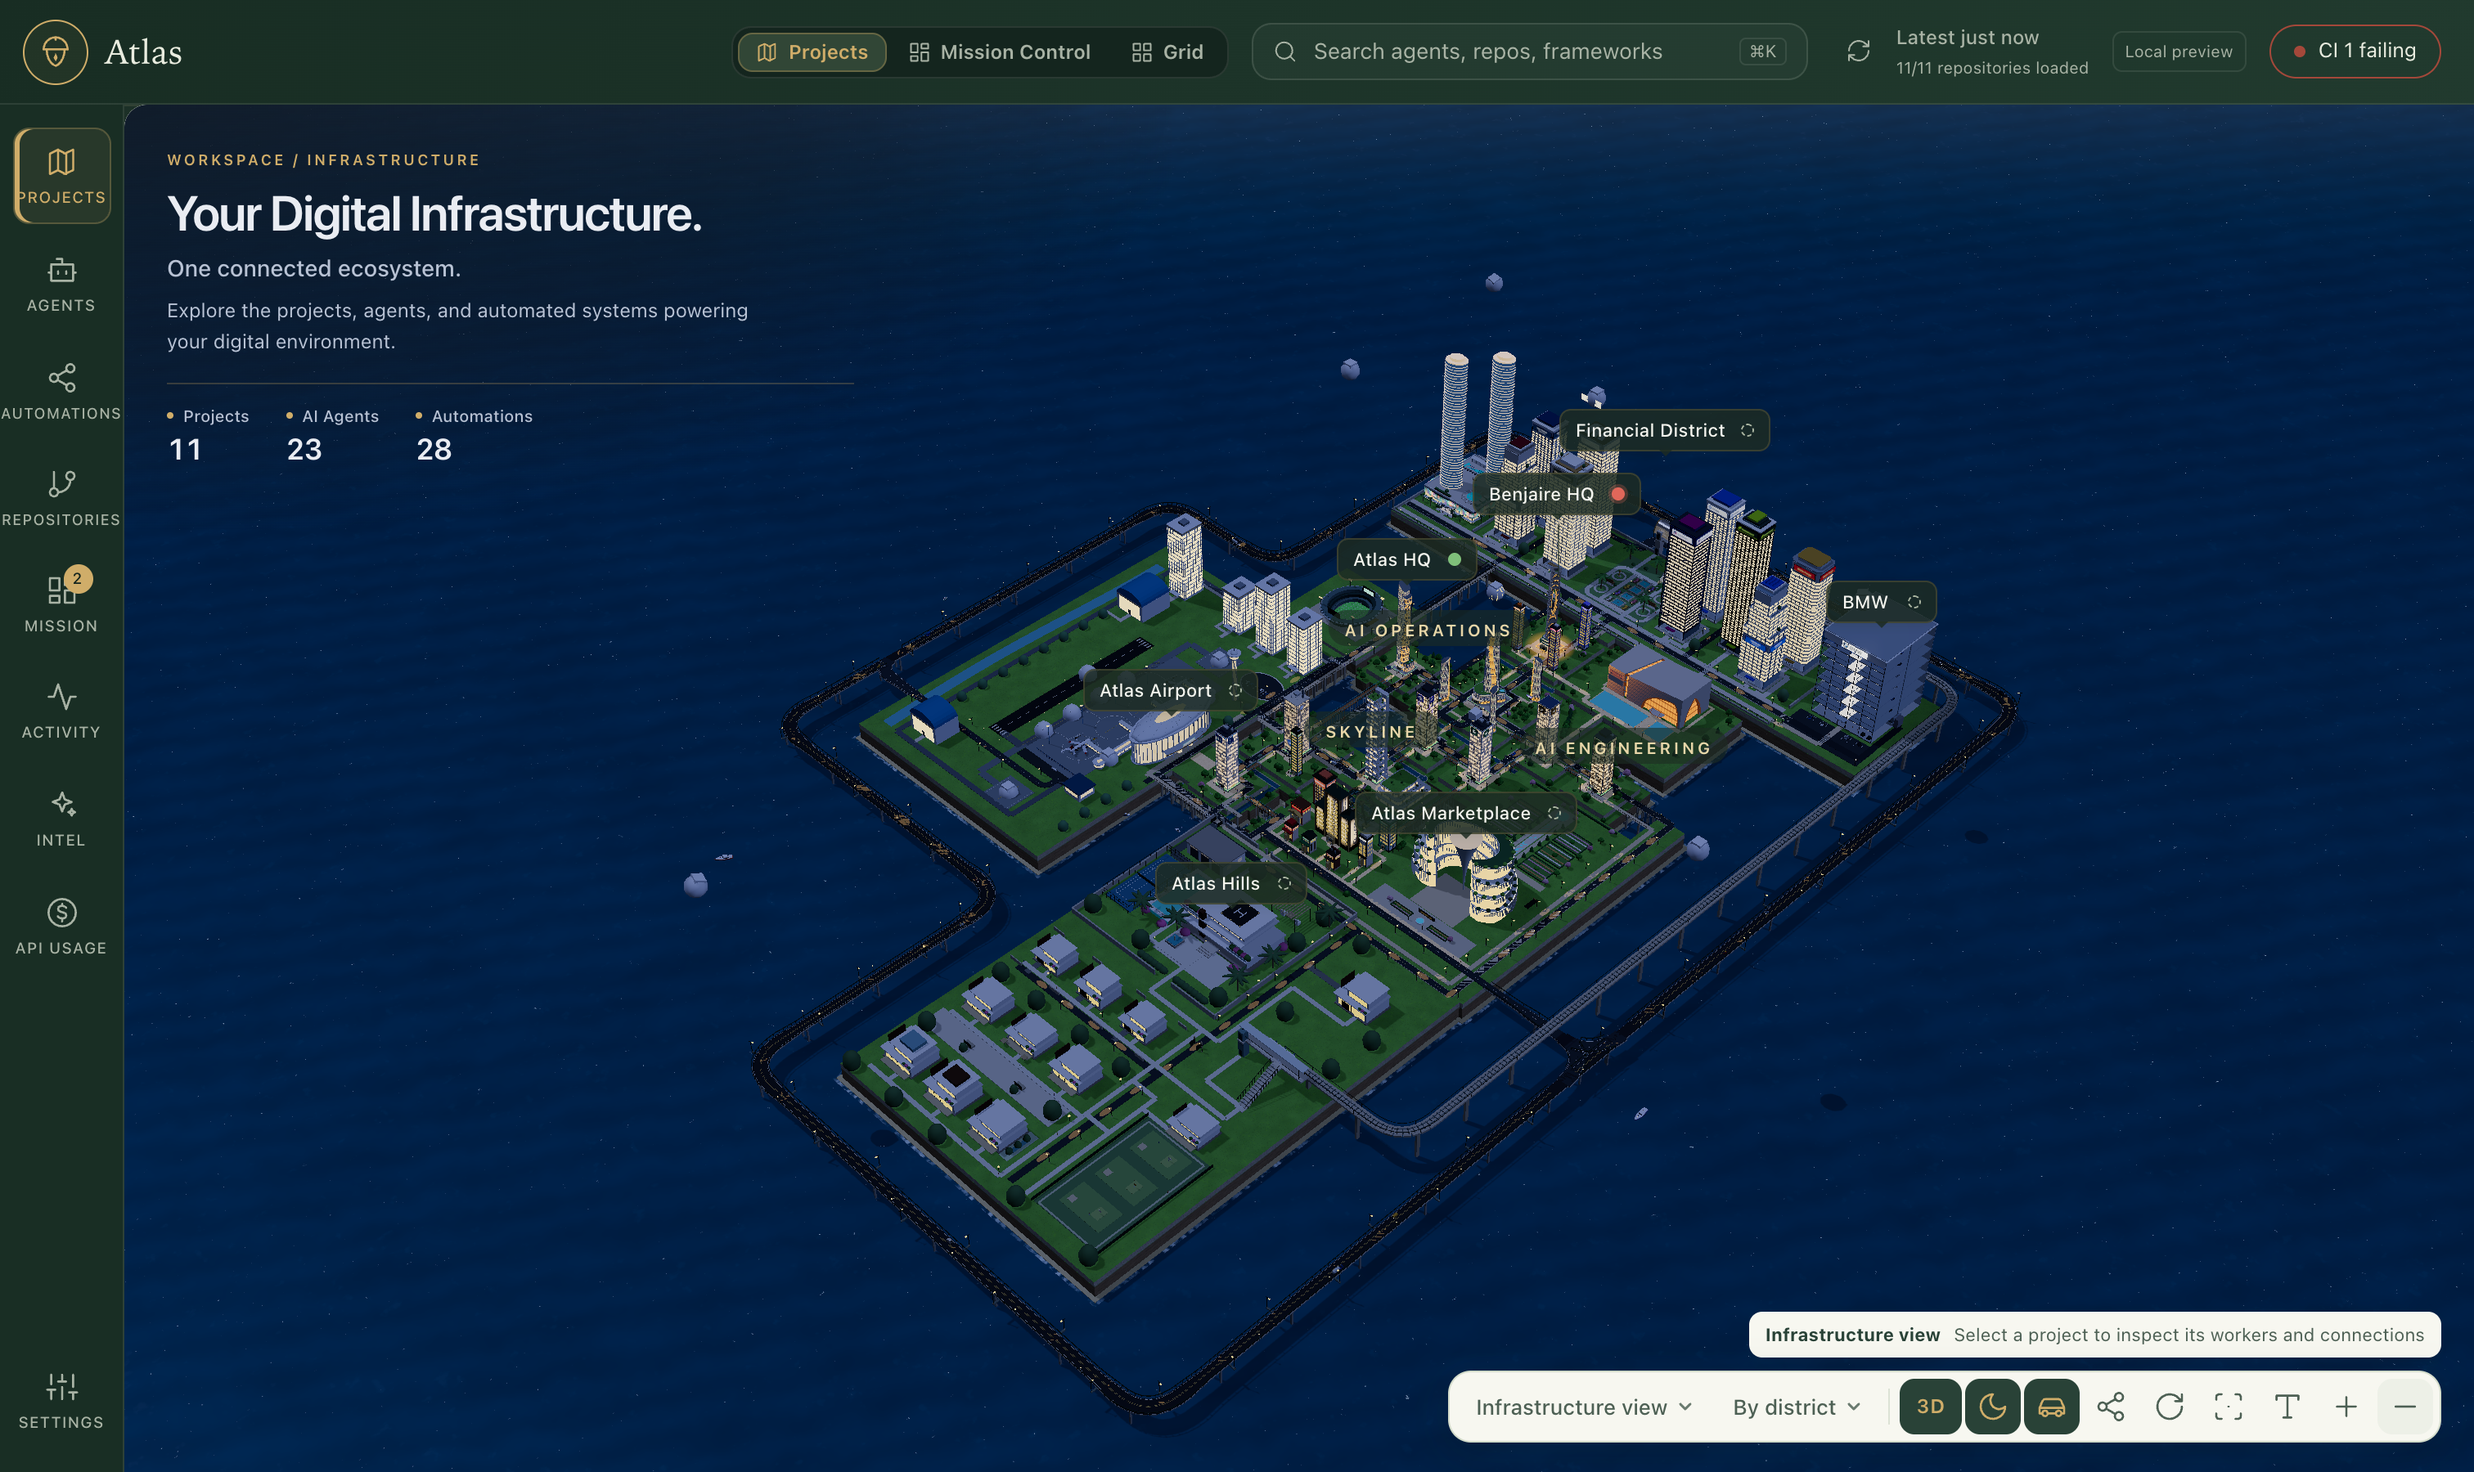
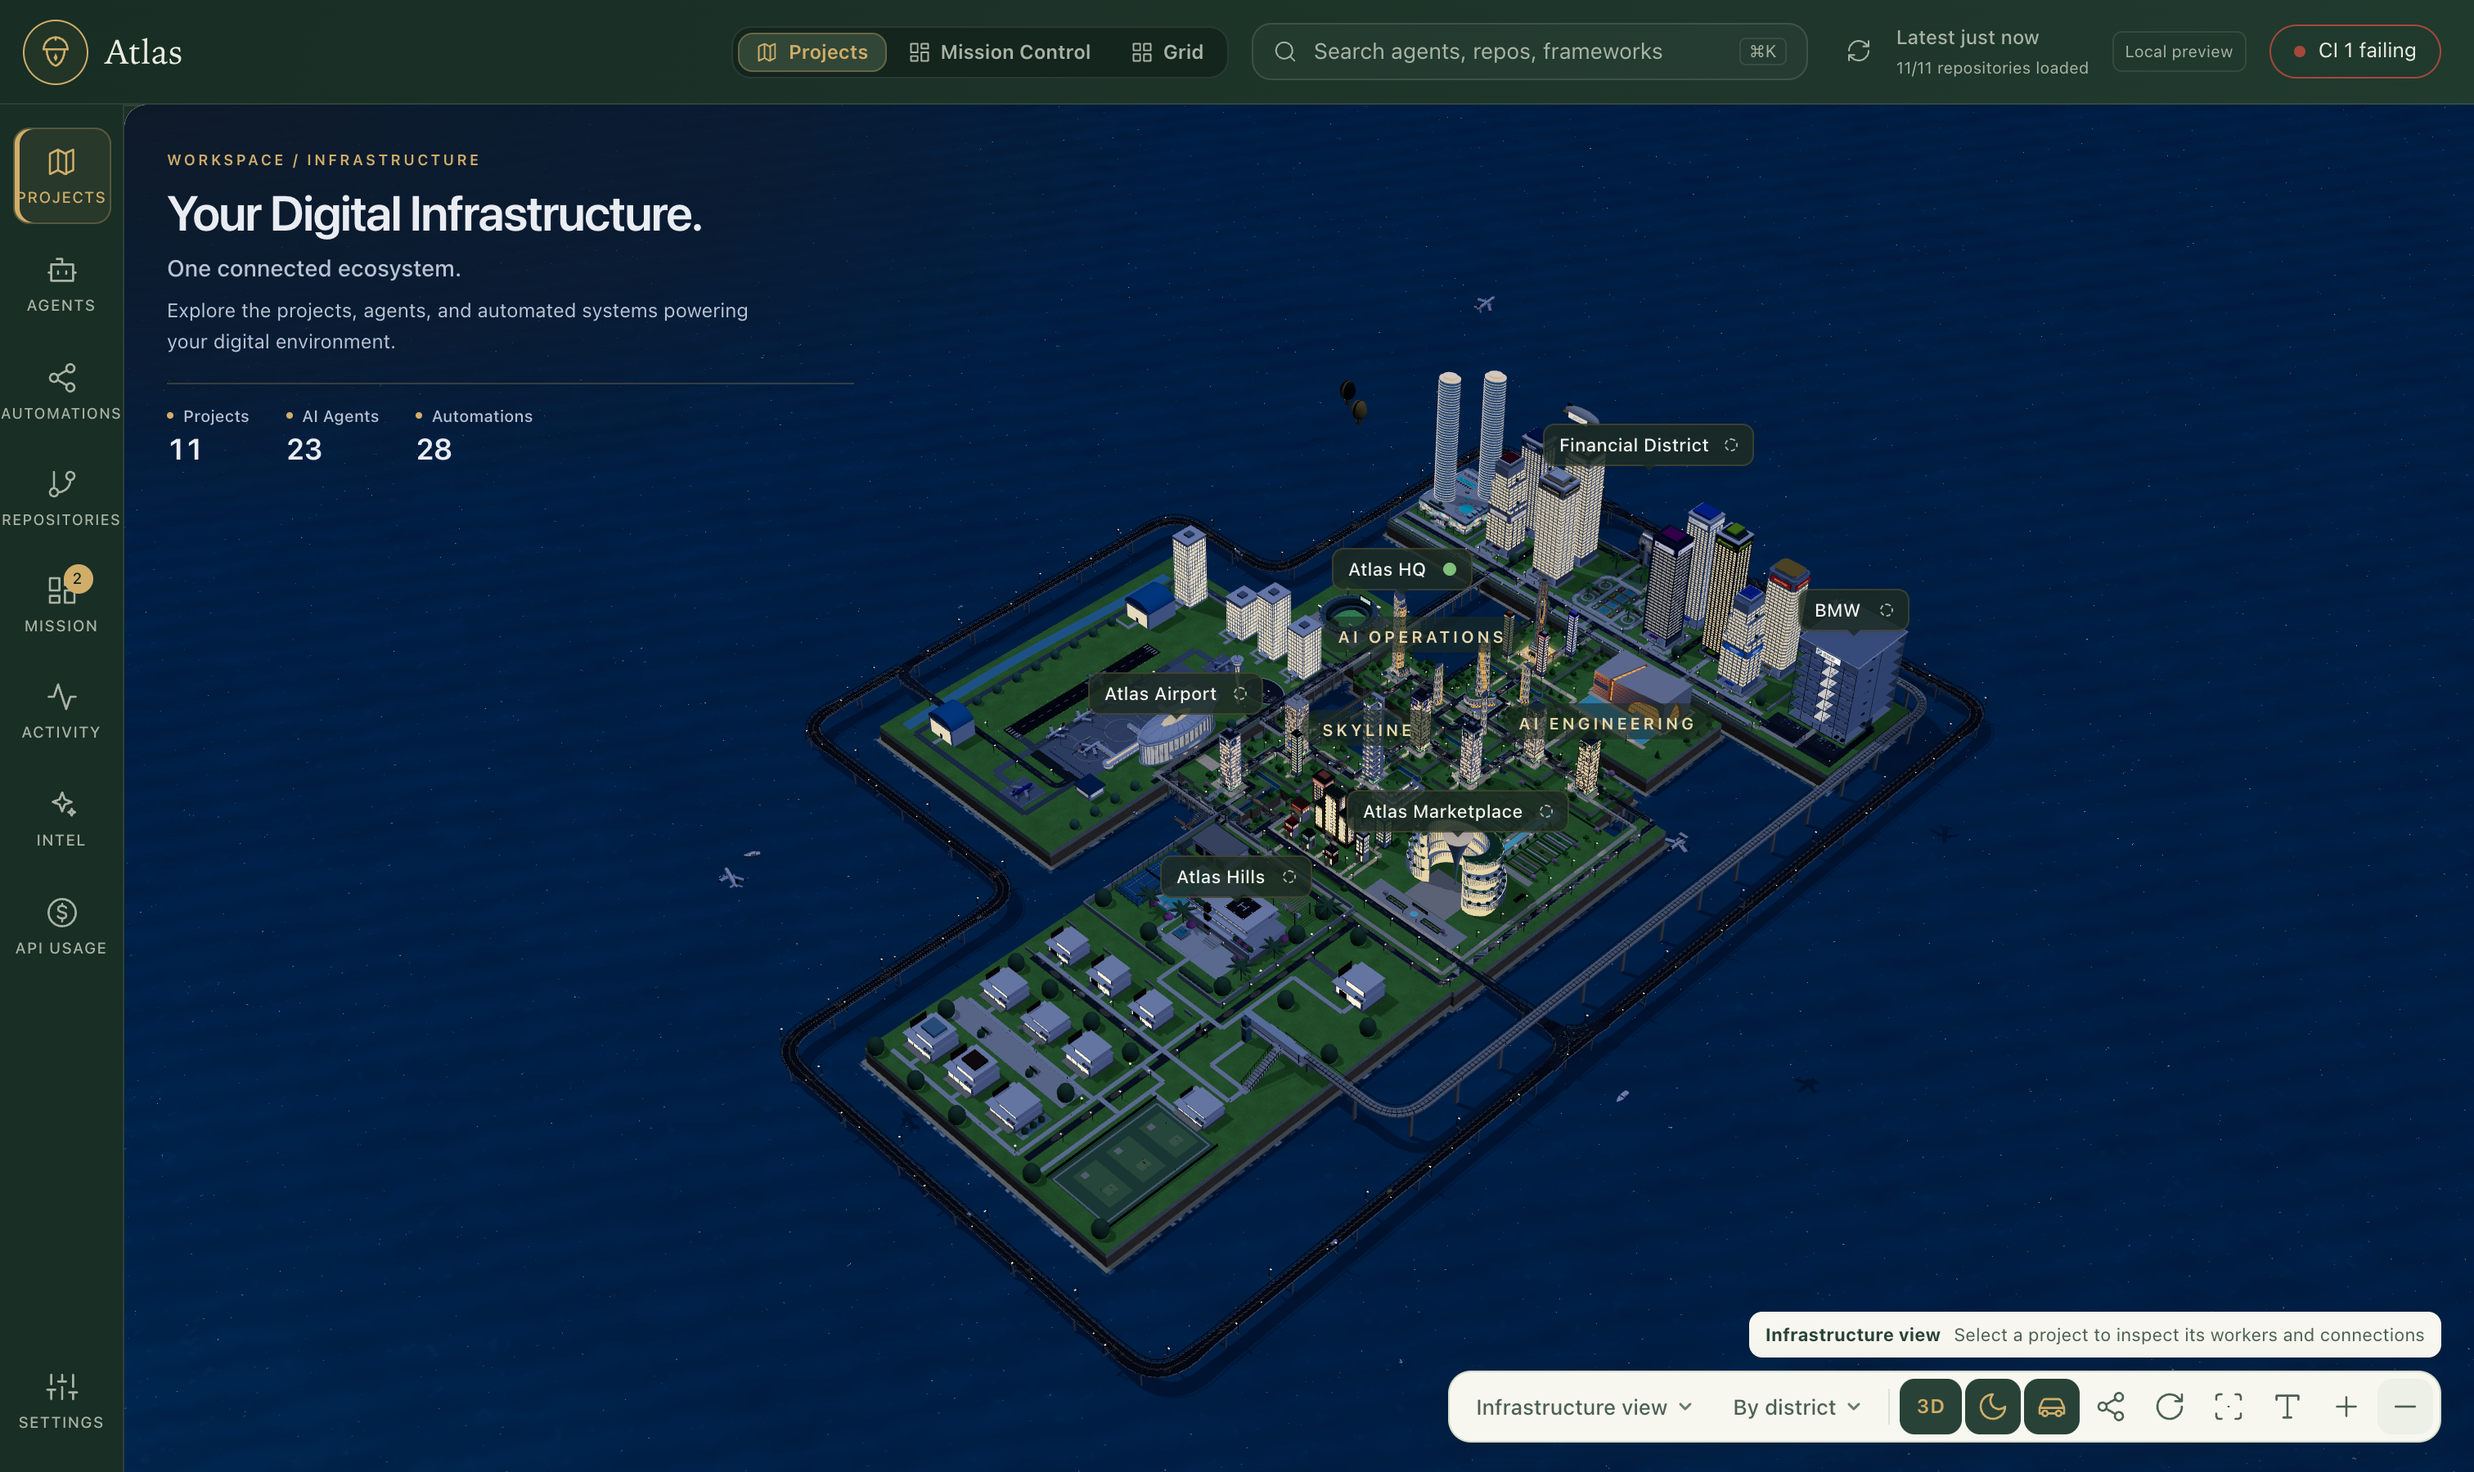
Use direct night rendering to eliminate bloom framebuffer artifacts

Changed region(s): [[0.2798, 0.1867, 0.8393, 0.9644], [0.2798, 0.5911, 0.3108, 0.6222]]

diff --git a/src/views/map3d/living.tsx b/src/views/map3d/living.tsx
@@ -5,8 +5,7 @@ import { beginPedestrianFrame, reportPedestrian, pedestrianAllowed } from "./doo
 import { useEffect, useMemo, useRef } from "react";
 import { useFrame, useThree } from "@react-three/fiber";
 import * as THREE from "three";
-import { prepareMapFrame } from "./mapViewport";
-import { createBloomPipeline } from "./bloomPipeline";
+import { renderMapFrame } from "./mapViewport";
 import { wake } from "../../lib/power";
 import { focusable, night } from "./materials";
 import { Instanced, type Inst, type useGeometries, type useMaterials } from "./models";
@@ -293,28 +292,12 @@ export function Traffic({ scene, g, m, moving }: { scene: Scene3D; g: G; m: M; m
   );
 }
 
-/**
- * A light bloom at night, only on what is brighter than the scene: lit windows, path lights and
- * connections. By day, and while the bloom is off, the map renders directly.
- */
-export function Bloom() {
+/** Day and night share one framebuffer path; emissive surfaces provide night lighting. */
+export function MapRenderer() {
   const { gl, scene, camera } = useThree();
-  const pipeline = useRef<ReturnType<typeof createBloomPipeline> | null>(null);
   const frameSize = useMemo(() => new THREE.Vector2(), []);
-  useEffect(() => () => {
-    pipeline.current?.dispose();
-    pipeline.current = null;
-  }, [gl, scene, camera]);
-  // Priority 1 takes over rendering. Daylight needs no postprocessing allocations or passes.
-  useFrame(() => {
-    prepareMapFrame(gl, frameSize);
-    const k = night.value;
-    if (k < 0.02) return gl.render(scene, camera);
-    const p = pipeline.current ?? (pipeline.current = createBloomPipeline(gl, scene, camera));
-    p.resize();
-    p.bloom.strength = k * 0.32;
-    p.composer.render();
-  }, 1);
+  // Priority 1 owns rendering, with no offscreen compositor or night-only render targets.
+  useFrame(() => renderMapFrame(gl, scene, camera, frameSize), 1);
   return null;
 }
 

diff --git a/src/views/map3d/mapViewport.test.ts b/src/views/map3d/mapViewport.test.ts
@@ -1,6 +1,6 @@
 import {expect,it,vi} from 'vitest';
 import * as THREE from 'three';
-import {mapZoomLimits,prepareMapFrame} from './mapViewport';
+import {mapZoomLimits,prepareMapFrame,renderMapFrame} from './mapViewport';
 it('resets offscreen/scissor state and covers the complete logical canvas at any DPR',()=>{
  const gl={setRenderTarget:vi.fn(),getSize:(v:THREE.Vector2)=>v.set(1200,800),setViewport:vi.fn(),setScissorTest:vi.fn()} as unknown as THREE.WebGLRenderer;
  prepareMapFrame(gl,new THREE.Vector2());
@@ -13,4 +13,14 @@ it('bounds zoom-out near the fitted city and recalculates for viewport size',()=
  expect(mapZoomLimits(200).max).toBe(210);
  expect(mapZoomLimits(NaN).max).toBe(31.5);
  expect(mapZoomLimits(0).max).toBeGreaterThanOrEqual(4);
+});
+
+it('renders straight to the complete canvas on repeated frames without offscreen targets',()=>{
+ const gl={setRenderTarget:vi.fn(),getSize:(v:THREE.Vector2)=>v.set(800,500),setViewport:vi.fn(),setScissorTest:vi.fn(),render:vi.fn()} as unknown as THREE.WebGLRenderer;
+ const scene=new THREE.Scene(),camera=new THREE.PerspectiveCamera(),size=new THREE.Vector2();
+ for(let i=0;i<3;i++)renderMapFrame(gl,scene,camera,size);
+ expect(gl.render).toHaveBeenCalledTimes(3);
+ expect(gl.render).toHaveBeenLastCalledWith(scene,camera);
+ expect(vi.mocked(gl.setRenderTarget).mock.calls).toEqual([[null],[null],[null]]);
+ expect(vi.mocked(gl.setViewport).mock.invocationCallOrder[0]).toBeLessThan(vi.mocked(gl.render).mock.invocationCallOrder[0]);
 });

diff --git a/src/views/map3d/Map3D.tsx b/src/views/map3d/Map3D.tsx
@@ -37,7 +37,7 @@ import { residentsLabel } from "../../catalog/roles";
 import type { Status } from "../../catalog/types";
 import type { Health, Verified } from "../../lib/derive";
 import { fogRange } from "./fogRange";
-import { Bloom, Sky, Traffic, Vehicles, type LightMode } from "./living";
+import { MapRenderer, Sky, Traffic, Vehicles, type LightMode } from "./living";
 import { statusLabel } from "../../components/bits";
 import { placeLabels, type Layout } from "../mapLayout";
 import { measure, SANS, wrap } from "../mapText";
@@ -1087,7 +1087,7 @@ function World({
   return (
     <>
       <Sky mode={lightMode} reduced={reduced} m={m} sun={light} fog={fog} />
-      <Bloom />
+      <MapRenderer />
       <Traffic scene={scene} g={g} m={m} moving={!reduced} />
       {traffic && <Vehicles scene={scene} g={g} m={m} moving={!reduced} />}
       <directionalLight ref={light} castShadow intensity={2.5} color="#fff0d2" shadow-mapSize={[shadowSize, shadowSize]} shadow-bias={-0.0004} shadow-normalBias={0.03} />

diff --git a/visual/map-zoom-stability.visual.ts b/visual/map-zoom-stability.visual.ts
@@ -31,5 +31,9 @@ for(const light of ['day','night'] as const)test(`map zoom stays bounded and dra
   await page.getByRole('button',{name:'Zoom out',exact:true}).click();await settle(page,1);
  }
  for(let i=0;i<10;i++)await page.getByRole('button',{name:'Zoom in',exact:true}).click();await settle(page,3);
+ const close=PNG.sync.read(await page.locator('.map3d canvas').screenshot());let black=0;
+ for(let i=0;i<close.data.length;i+=4)if(close.data[i]<2&&close.data[i+1]<2&&close.data[i+2]<2)black++;
+ expect(black/(close.width*close.height),'no black patch at close zoom').toBeLessThan(.05);
+ expect((await state('read')).error).toBe(0);
  await page.screenshot({path:`artifacts/map-zoom/${light}-zoom.png`});expect(errors).toEqual([]);
 });

diff --git a/visual/render-efficiency.visual.ts b/visual/render-efficiency.visual.ts
@@ -41,7 +41,7 @@ test('static scenes sleep, wake for controls, and suspend when hidden', async ({
   await page.screenshot({path:'artifacts/render-efficiency/phone.png'});
 });
 
-test('night effect survives adaptive resolution and day/night switching', async ({page}) => {
+test('night rendering survives adaptive resolution and day/night switching', async ({page}) => {
   await openAtlas(page, {light:'night'}); await waitForScene(page);
   await page.evaluate(async () => {
     const path = '/src/lib/power.ts'; const power = await import(path); power.setPowerMode('saver');

diff --git a/src/views/map3d/mapViewport.ts b/src/views/map3d/mapViewport.ts
@@ -11,3 +11,9 @@ export function mapZoomLimits(fitDistance:number){
  const fit=Number.isFinite(fitDistance)?Math.max(4,fitDistance):30;
  return {min:4,max:fit*1.05};
 }
+
+/** The same direct render path is used in both lighting modes, including after zoom or resize. */
+export function renderMapFrame(gl:THREE.WebGLRenderer,scene:THREE.Scene,camera:THREE.Camera,size:THREE.Vector2){
+ prepareMapFrame(gl,size);
+ gl.render(scene,camera);
+}

diff --git a/docs/map-zoom-stability.md b/docs/map-zoom-stability.md
@@ -19,3 +19,11 @@ Extend the existing two-triangle ocean plane past the camera's far range so its 
 28 focused viewport, trackpad and bloom tests passed; lint, type checks and build passed. Both day/night browser checks passed and screenshots were reviewed in `docs/screenshots/map-zoom/`. They exercise 20 zoom-out clicks, DPR changes (1, 2, 1.5), deliberate partial viewport/scissor state, day/night and close zoom. Screenshot baselines are not changed. Browser software WebGL does not establish native macOS GPU correctness: installed-app zoom verification remains necessary before claiming the specific desktop artifact is fully resolved.
 
 No dependencies, business behavior, paid services, merge or deployment changes.
+
+## Night rendering follow-up
+
+Day and night now use the same direct renderer. The night-only EffectComposer/UnrealBloomPass pipeline and its tests were removed; emissive windows, lamps, materials, shadows and the lighting settings remain. The visual tradeoff is removal of the soft screen-space bloom halo. This eliminates the offscreen compositor path implicated by night-only partial frames rather than relying solely on viewport restoration. No new fallback timers, GPU readbacks or recurring work.
+
+27 focused viewport and trackpad tests, lint, type checks and build passed after removal. Native WebKit/Metal reproduction remains unverified; an installed build must be checked before claiming native GPU correctness.
+
+Both focused night browser checks passed (zoom/DPR/frame coverage and day/night/power-mode/building entry). Updated night overview and close screenshots were reviewed.

diff --git a/CHANGELOG.md b/CHANGELOG.md
@@ -3,7 +3,7 @@
 What changed in Atlas, newest first. Every pull request that changes the app adds one line at the
 top of the list: `- YYYY-MM-DD · What changed, in plain words (#PR)`. The newest five lines are
 shown in the Mac app's **Update available** button, so write them for KC, not for a reviewer.
-- 2026-11-01 · Map zoom stays near the city overview and restores the full canvas during rendering changes (#199)
+- 2026-11-01 · Map zoom stays near the city and night mode uses direct rendering to avoid offscreen black-frame artifacts (#199)
 - 2026-11-01 · New Client inquiries list in Mission Control: every benjaire.com inquiry with a drafted reply that opens in your mail app, plus follow-up reminders on day 3 and day 7. Nothing is sent without you (#183)
 - 2026-11-01 · Projects keeps its city ready between visits, pauses hidden graphics, and releases unused night effects (#179)
 - 2026-11-01 · Inside any building, two fingers on the Mac trackpad now look around the room all the way round, pinch zooms, twist turns, and Option with two fingers moves across the floor. Walls on your side step aside so you can see in from any angle (#191)
